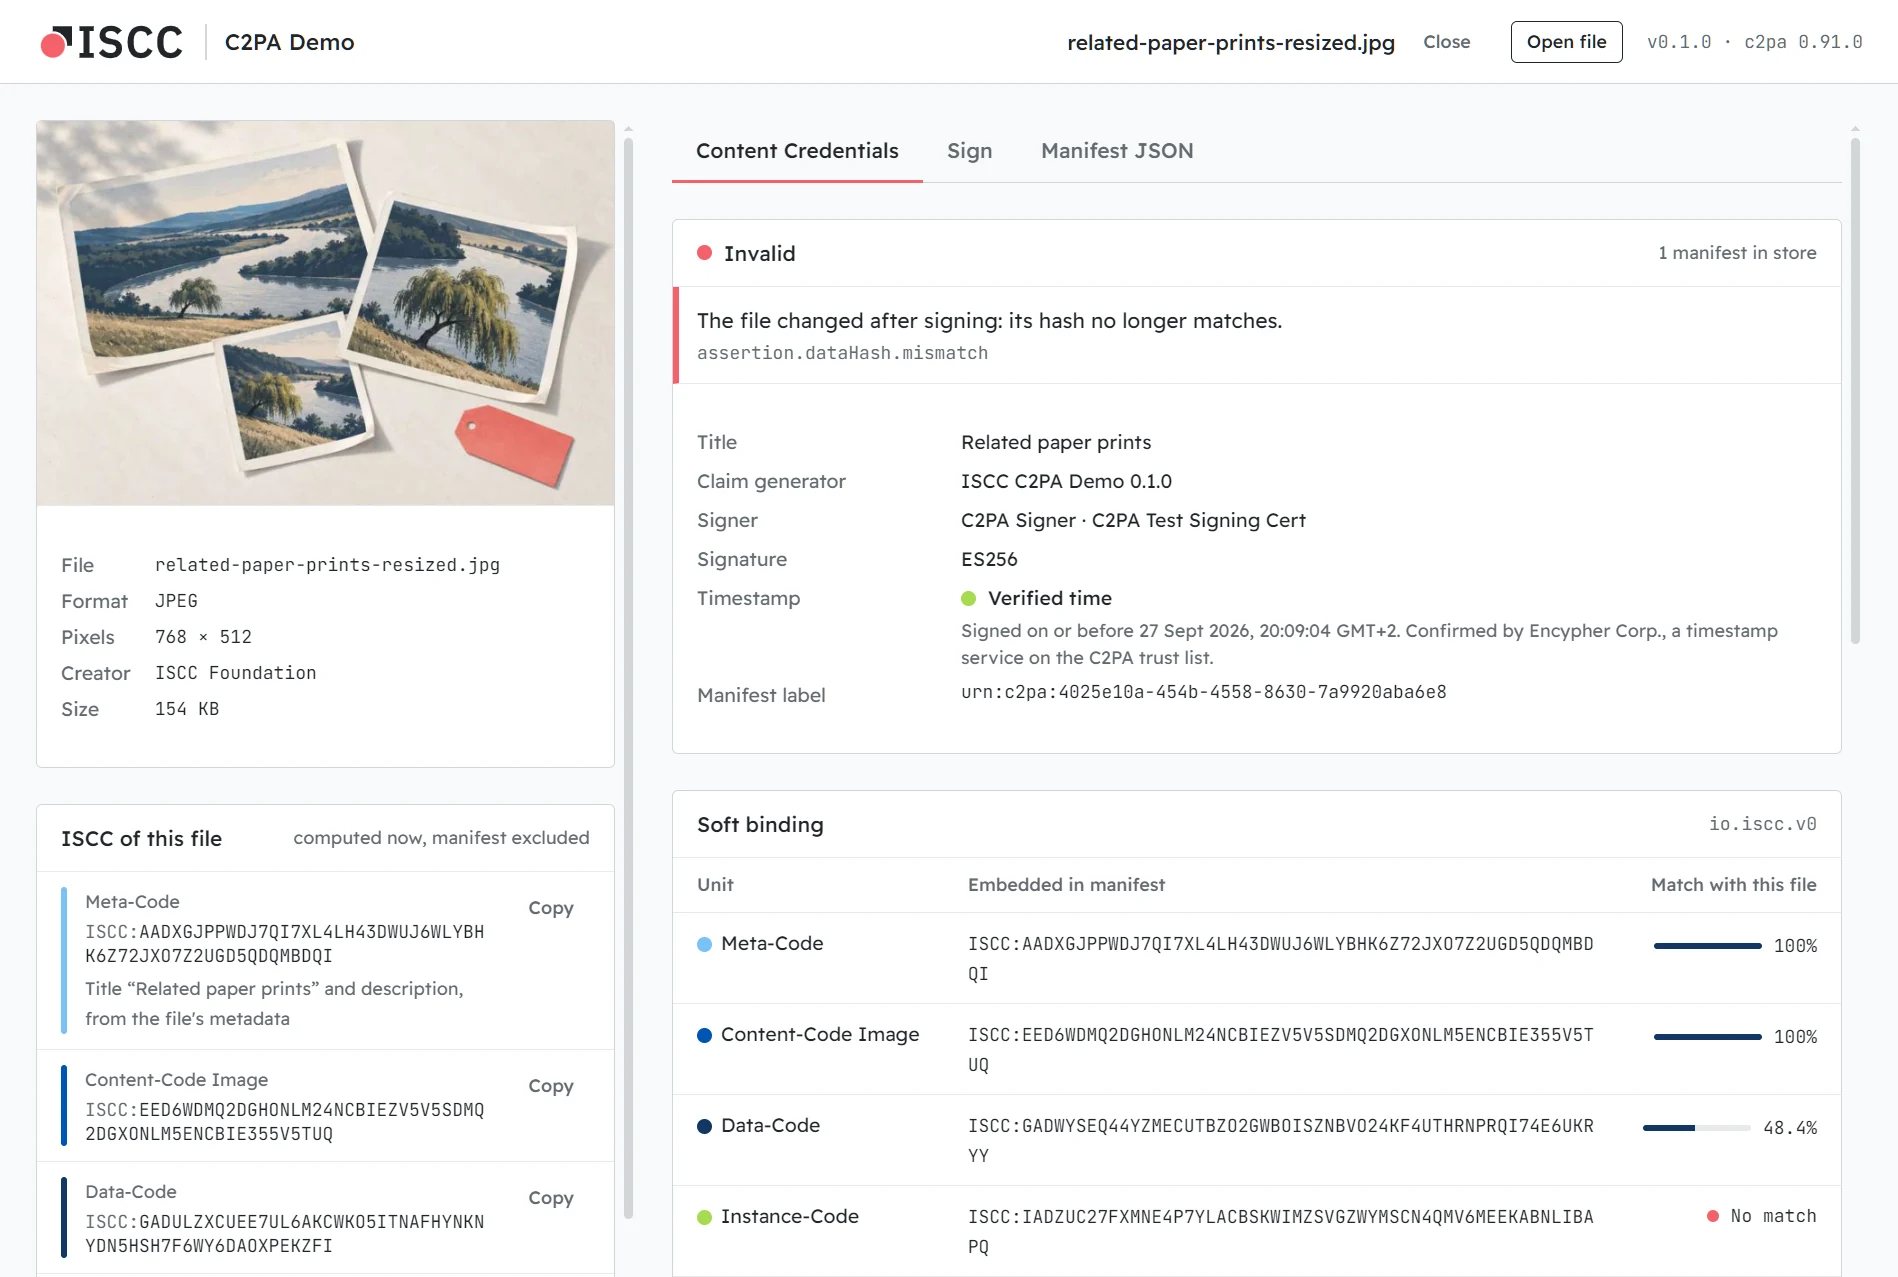
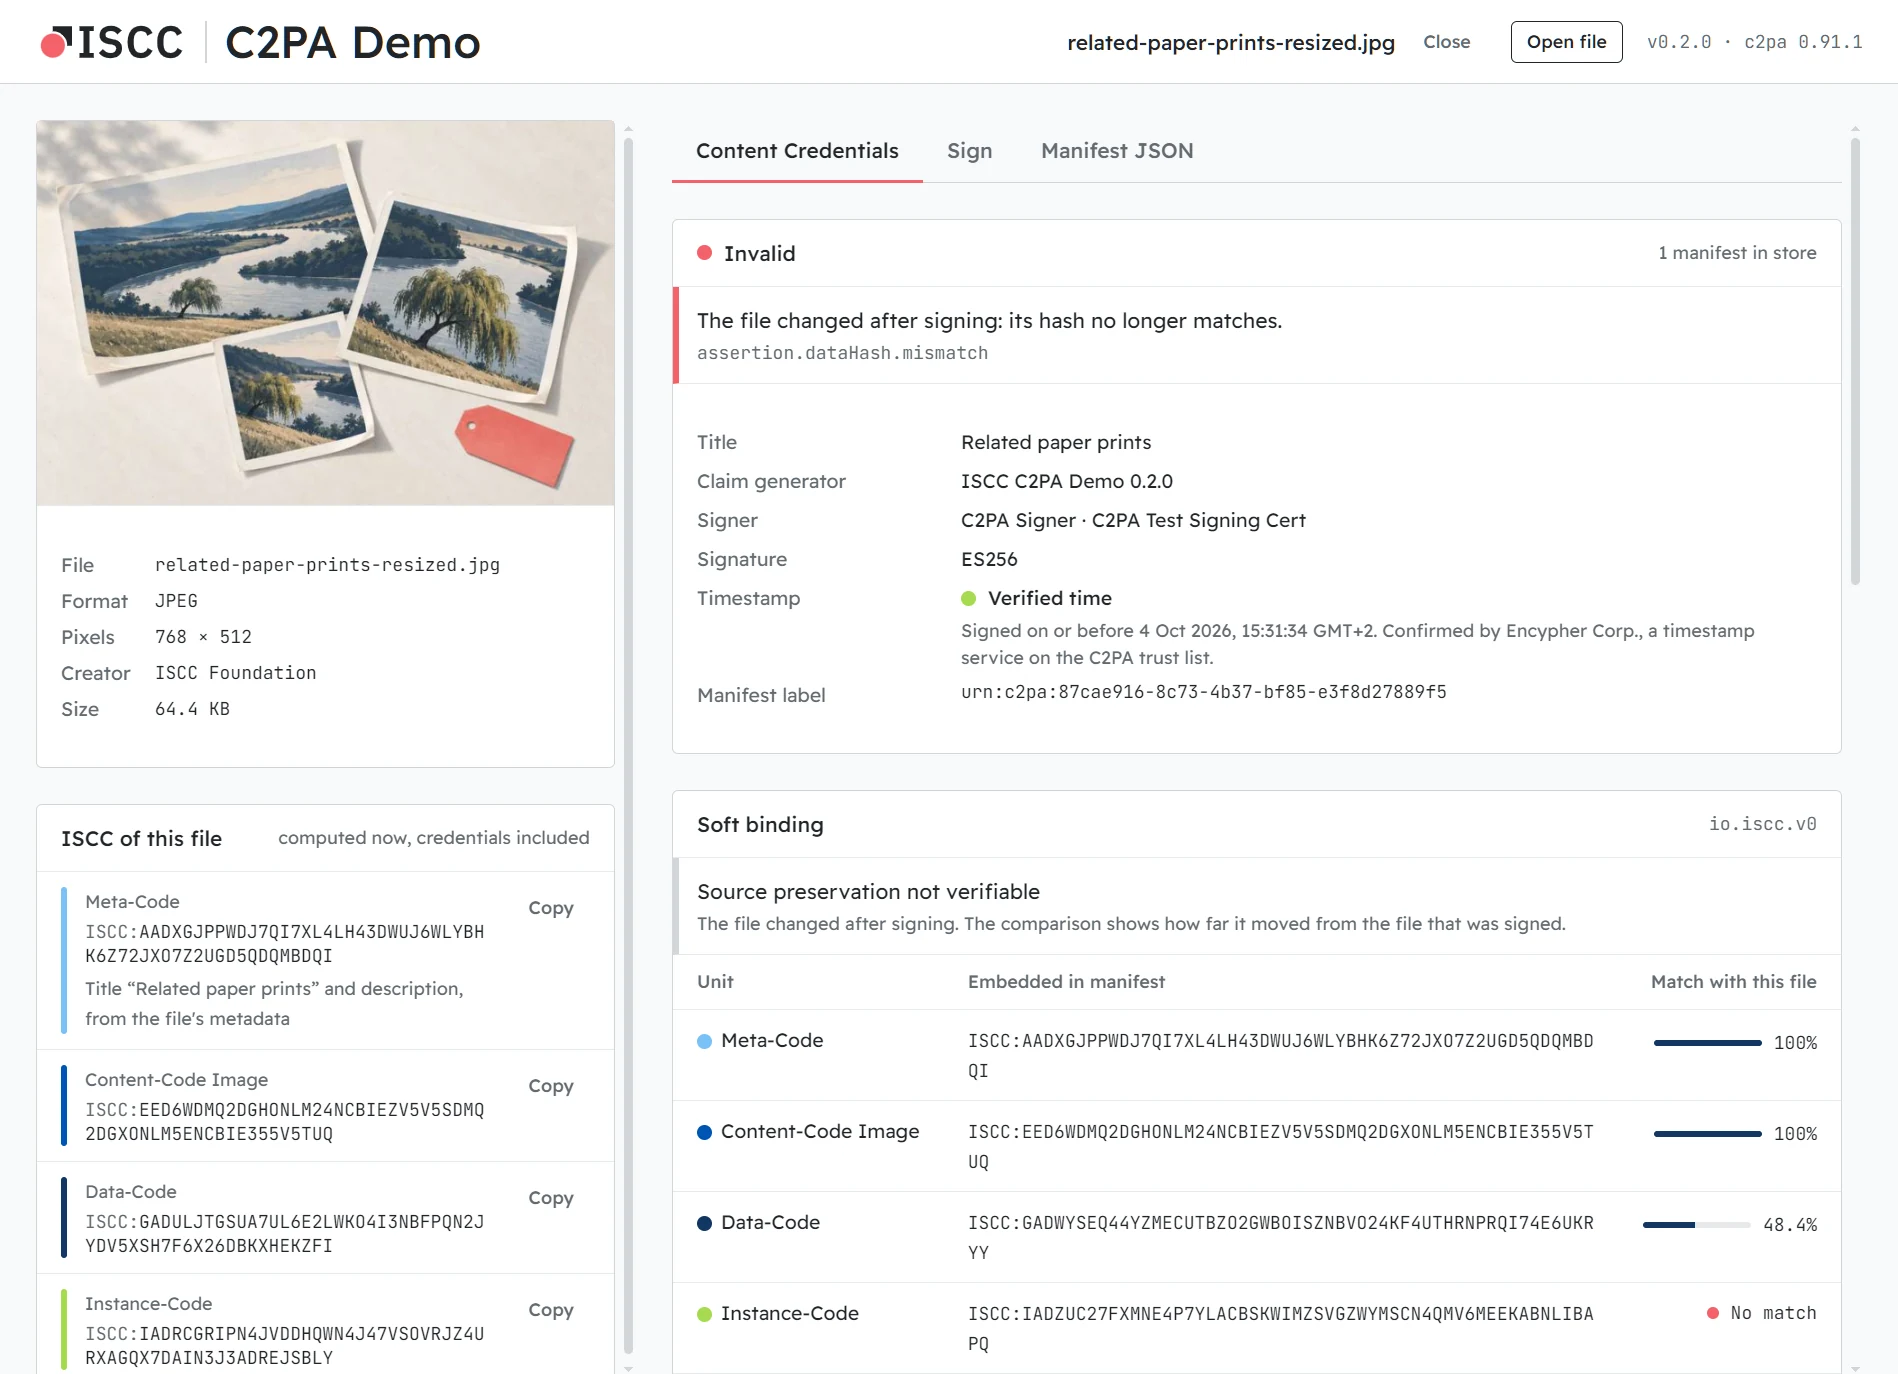
docs: show PDF, video and the v0.2.0 app on the landing page

diff --git a/site/index.html b/site/index.html
@@ -7,7 +7,7 @@
   <meta name="description" content="A tech demo of the International Standard Content Code (ISCC, ISO 24138:2024) as a soft binding in C2PA Content Credentials. When a signed file is re-encoded, the hash breaks and the ISCC Content-Code still matches. Open source, for Windows, macOS and Linux.">
   <meta property="og:type" content="website">
   <meta property="og:title" content="ISCC C2PA Demo: match Content Credentials to their content, even after it changes">
-  <meta property="og:description" content="Tech demo of ISCC (ISO 24138:2024) as a soft binding in C2PA Content Credentials. Images, documents and audio. Open source, for Windows, macOS and Linux.">
+  <meta property="og:description" content="Tech demo of ISCC (ISO 24138:2024) as a soft binding in C2PA Content Credentials. Images, documents, audio and video. Open source, for Windows, macOS and Linux.">
   <meta property="og:url" content="https://c2pa-demo.iscc.codes/">
   <meta property="og:image" content="https://c2pa-demo.iscc.codes/assets/og.jpg">
   <meta name="twitter:card" content="summary_large_image">
@@ -37,7 +37,7 @@
         <span class="label version">{{version_label}}</span>
       </div>
       <figure class="shot">
-        <img src="assets/changed.webp" width="1898" height="1277" alt="The app with a changed copy of a signed image open: the Content Credentials tab says Invalid because the file changed after signing, and the ISCC soft binding still matches the Content-Code Image at 100 percent, while the byte-based Data-Code and Instance-Code no longer match.">
+        <img src="assets/changed.webp" width="1898" height="1374" alt="The app with a changed copy of a signed image open: the Content Credentials tab says Invalid because the file changed after signing, and the ISCC soft binding still matches the Content-Code Image at 100 percent, while the byte-based Data-Code and Instance-Code no longer match.">
       </figure>
       <p class="caption">A signed image, re-encoded at half size, with its Content Credentials copied back in. C2PA
         now says <b>Invalid</b>: the bytes changed. The ISCC Content-Code still matches the pixels at <b>100%</b>, and
@@ -48,8 +48,8 @@
     <section class="wrap grid3" aria-label="What you can do">
       <div>
         <h3><span class="step">1</span>Inspect</h3>
-        <p>Drop an image, a document or an audio file. See its Content Credentials (who signed it, when, and whether
-          the signature holds) and its ISCC.</p>
+        <p>Drop an image, a document, an audio or a video file. See its Content Credentials (who signed it, when, and
+          whether the signature holds) and its ISCC.</p>
       </div>
       <div>
         <h3><span class="step">2</span>Sign</h3>
@@ -96,12 +96,12 @@
           <a href="https://ieps.iscc.codes/iep-0020/">IEP-0020</a> defines.</p>
         <p>Each unit is compared as a percentage: unrelated content scores around 50%, and the closer to 100%, the
           closer the content. The byte-based Data-Code and Instance-Code drop as soon as a file is re-encoded; that is
-          their job. The Content-Code follows the image, the text or the sound.</p>
+          their job. The Content-Code follows the image, the text, the sound or the video.</p>
       </div>
       <ol class="units" aria-label="ISCC units in the soft binding">
         <li class="meta"><b>Meta-Code</b><span>From title and description, which the manifest also stores.</span></li>
-        <li class="content"><b>Content-Code</b><span>From the pixels, the text or the sound. Usually stays close
-          through resizing and re-encoding.</span></li>
+        <li class="content"><b>Content-Code</b><span>From the pixels, the text, the sound or the video frames.
+          Usually stays close through resizing and re-encoding.</span></li>
         <li class="data"><b>Data-Code</b><span>From the raw bytes. Survives small byte edits, not re-encoding.</span></li>
         <li class="instance"><b>Instance-Code</b><span>A checksum of the bytes: an exact match, or none.</span></li>
       </ol>
@@ -112,7 +112,7 @@
       <h2>See ISCC work inside C2PA</h2>
       <p><code>io.iscc.v0</code> has been on the C2PA soft binding algorithm list since 2024. This demo runs it end
         to end with <a href="https://github.com/contentauth/c2pa-rs">c2pa-rs</a>, the open source C2PA SDK of the
-        Content Authenticity Initiative, on 19&nbsp;file formats.</p>
+        Content Authenticity Initiative, on 24&nbsp;file formats.</p>
       <p>ISCC is an ISO standard with an open source reference implementation, so you can calculate the codes again
         and compare. The tests check every unit of this app against iscc-core and iscc-sdk, bit for bit.</p>
     </section>
@@ -120,9 +120,9 @@
     <section class="wrap" id="download">
       <p class="label">Download · {{version_label}}</p>
       <h2>Try it with a file you know</h2>
-      <p>Images: JPEG, PNG, WebP, GIF, TIFF, SVG. Documents: EPUB, Word, PowerPoint, Excel, OpenDocument, plain text,
-        Markdown. Audio: MP3, FLAC, WAV, M4A. The builds are not code-signed, so each card says how to get past the
-        system's warning at the first start.</p>
+      <p>Images: JPEG, PNG, WebP, GIF, TIFF, SVG. Documents: PDF, EPUB, Word, PowerPoint, Excel, OpenDocument, plain
+        text, Markdown. Audio: MP3, FLAC, WAV, M4A. Video: MP4, MOV, M4V, AVI. The builds are not code-signed, so each
+        card says how to get past the system's warning at the first start.</p>
       <div class="downloads">
         <article data-os="windows">
           <h3>Windows</h3>
@@ -134,7 +134,7 @@
         </article>
         <article data-os="macos" id="macos">
           <h3>macOS</h3>
-          <p class="label">macOS 11 or later, Apple silicon and Intel</p>
+          <p class="label">macOS 13 or later, Apple silicon and Intel</p>
           <button class="button primary" type="button" data-copy="curl -fsSL https://c2pa-demo.iscc.codes/install-mac.sh | bash">Copy install command</button>
           <p class="file">for Terminal · <a href="install-mac.sh">read the script</a></p>
           <pre><code>curl -fsSL https://c2pa-demo.iscc.codes/install-mac.sh | bash</code></pre>
@@ -167,8 +167,11 @@
           demo signature. Sign with your own certificate and key for anything real.</li>
         <li><b>A matching ISCC shows similar content.</b> It is a strong signal, not proof, that two files hold the
           same or similar content. It says nothing about who made them or who holds the rights.</li>
-        <li><b>Your files stay on your computer.</b> Inspecting works offline. When you sign, only a hash of the
-          signature goes to a timestamp service.</li>
+        <li><b>Video needs ffmpeg, downloaded once.</b> The first time you open a video, the app offers to download
+          the ffmpeg build that iscc-sdk uses and checks it before it runs. Without it, a video still shows its
+          Content Credentials, Data-Code and Instance-Code.</li>
+        <li><b>Your files stay on your computer.</b> Inspecting works offline, once ffmpeg is there for video. When you
+          sign, only a hash of the signature goes to a timestamp service.</li>
       </ul>
     </section>
 
@@ -177,15 +180,17 @@
         <p class="label">For developers</p>
         <h2>Rust, Tauri and a little TypeScript</h2>
         <p>The core is Rust: <a href="https://crates.io/crates/c2pa">c2pa-rs</a> for Content Credentials,
-          <a href="https://crates.io/crates/iscc-lib">iscc-lib</a> for ISCC, and pure Rust readers for every format,
-          so you need no external tools and no Python. The same core also builds as <code>c2pa-iscc</code>, a
-          command-line tool that prints JSON, for scripts and agents. Both are Apache-2.0.</p>
-        <p class="small">Needs Rust 1.96 or later, Node 22.12 or later and pnpm. On Linux also the
+          <a href="https://crates.io/crates/iscc-lib">iscc-lib</a> for ISCC, pure Rust readers for most formats,
+          the bundled pdfium library for PDF, and ffmpeg for video, which the app downloads on first use. The same
+          core also builds as <code>c2pa-iscc</code>, a command-line tool that prints JSON, for scripts and agents.
+          Both are Apache-2.0.</p>
+        <p class="small">Needs Rust 1.96 or later, Node 22.12 or later, pnpm and uv. On Linux also the
           <a href="https://tauri.app/start/prerequisites/">Tauri system libraries</a>.</p>
       </div>
       <pre><code>git clone https://github.com/iscc/iscc-c2pa-demo
 cd iscc-c2pa-demo
 pnpm install
+uv run scripts/fetch_pdfium.py
 pnpm tauri dev
 
 # the command-line tool
